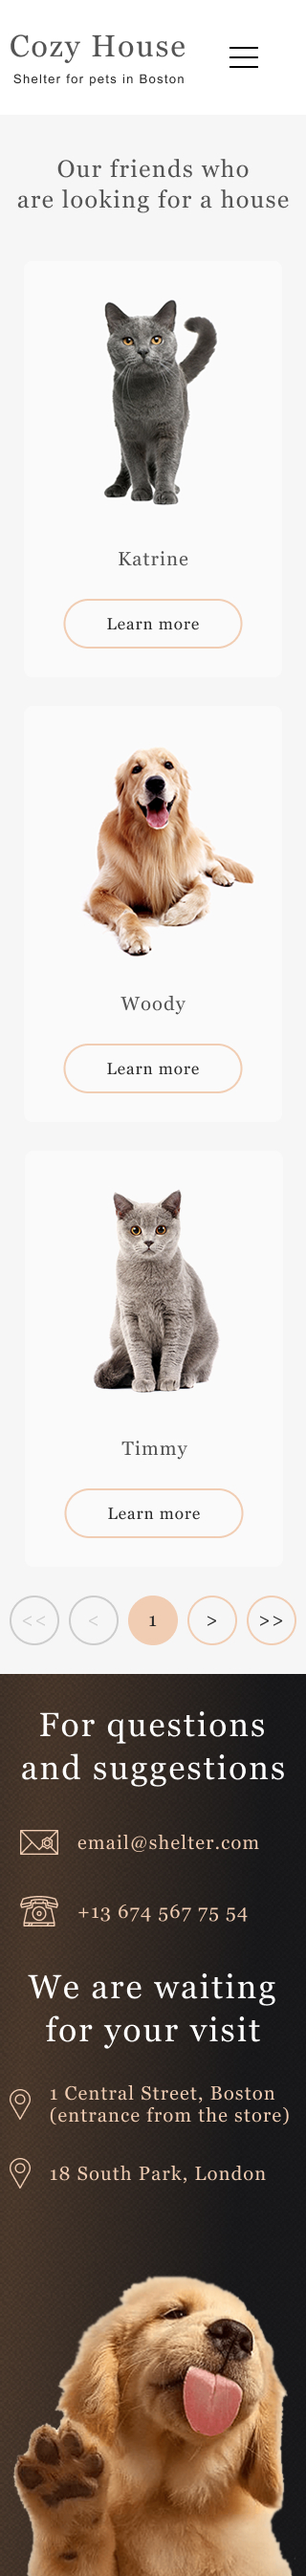
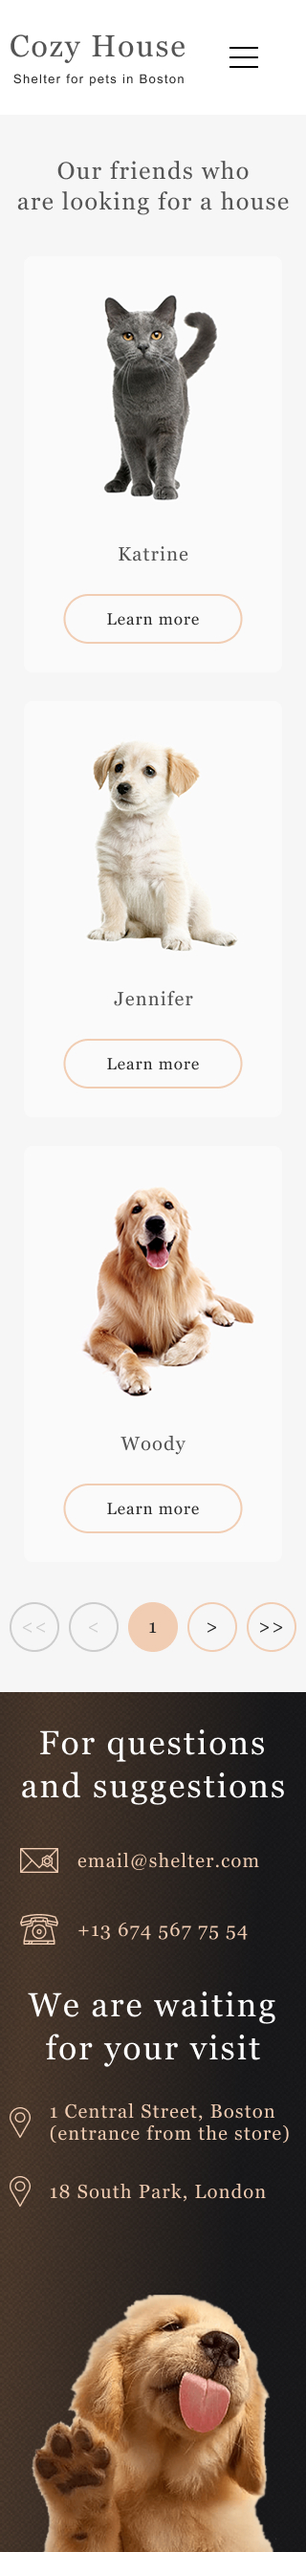
feat: implement adaptivity for main page 768px breakpoint

diff --git a/shelter/pages/main/index.html b/shelter/pages/main/index.html
@@ -57,7 +57,7 @@
                         Make a friend
                     </button>
                 </div>
-                <img class="hero-content__img" src="../../assets/images/header/start-screen-puppy.png"
+                <img class="hero-content__img" src="../../assets/images/main/start-screen/start-screen-puppy.png"
                      alt="Puppy image"/>
             </div>
         </div>
@@ -117,7 +117,7 @@
                             </div>
                         </div>
 
-                        <div class="card">
+                        <div class="card card-768_invisible">
                             <img class="card__img" src="../../assets/images/main/pets/pets-woody.png" alt="Dog image">
                             <h3 class="card__title">Woody</h3>
                             <div class="cards-btn-wrapper">
@@ -145,59 +145,55 @@
 
                 <div class="help-list-wrapper">
 
-                    <ul class="help-list1">
-                        <li class="help-list-item">
-                            <img class="help-list__img" src="../../assets/images/main/help-icons/icon-pet-food.svg"
-                                 alt="Pets food icon">
-                            <h4>Pet food</h4>
-                        </li>
-                        <li class="help-list-item">
-                            <img class="help-list__img"
-                                 src="../../assets/images/main/help-icons/icon-transportation.svg"
-                                 alt="Pets food icon">
-                            <h4>Transportation</h4>
-                        </li>
-                        <li class="help-list-item">
-                            <img class="help-list__img" src="../../assets/images/main/help-icons/icon-toys.svg"
-                                 alt="Pets food icon">
-                            <h4>Toys</h4>
-                        </li>
-                        <li class="help-list-item">
-                            <img class="help-list__img"
-                                 src="../../assets/images/main/help-icons/icon-bowls-and-cups.svg"
-                                 alt="Pets food icon">
-                            <h4>Bowls and cups</h4>
-                        </li>
-                        <li class="help-list-item">
-                            <img class="help-list__img" src="../../assets/images/main/help-icons/icon-shampoos.svg"
-                                 alt="Pets food icon">
-                            <h4>Shampoos</h4>
-                        </li>
-                    </ul>
+                    <li class="help-list-item">
+                        <img class="help-list__img" src="../../assets/images/main/help-icons/icon-pet-food.svg"
+                             alt="Pets food icon">
+                        <h4>Pet food</h4>
+                    </li>
+                    <li class="help-list-item">
+                        <img class="help-list__img"
+                             src="../../assets/images/main/help-icons/icon-transportation.svg"
+                             alt="Pets food icon">
+                        <h4>Transportation</h4>
+                    </li>
+                    <li class="help-list-item">
+                        <img class="help-list__img" src="../../assets/images/main/help-icons/icon-toys.svg"
+                             alt="Pets food icon">
+                        <h4>Toys</h4>
+                    </li>
+                    <li class="help-list-item">
+                        <img class="help-list__img"
+                             src="../../assets/images/main/help-icons/icon-bowls-and-cups.svg"
+                             alt="Pets food icon">
+                        <h4>Bowls and cups</h4>
+                    </li>
+                    <li class="help-list-item">
+                        <img class="help-list__img" src="../../assets/images/main/help-icons/icon-shampoos.svg"
+                             alt="Pets food icon">
+                        <h4>Shampoos</h4>
+                    </li>
 
-                    <ul class="help-list2">
-                        <li class="help-list-item">
-                            <img class="help-list__img" src="../../assets/images/main/help-icons/icon-vitamins.svg"
-                                 alt="Pets food icon">
-                            <h4>Vitamins</h4>
-                        </li>
-                        <li class="help-list-item">
-                            <img class="help-list__img" src="../../assets/images/main/help-icons/vectors/medicines.png"
-                                 alt="Pets food icon">
-                            <h4>Medicines</h4>
-                        </li>
-                        <li class="help-list-item">
-                            <img class="help-list__img"
-                                 src="../../assets/images/main/help-icons/icon-collars-leashes.svg"
-                                 alt="Pets food icon">
-                            <h4>Collars / leashes</h4>
-                        </li>
-                        <li class="help-list-item">
-                            <img class="help-list__img" src="../../assets/images/main/help-icons/icon-sleeping-area.svg"
-                                 alt="Pets food icon">
-                            <h4>Sleeping areas</h4>
-                        </li>
-                    </ul>
+                    <li class="help-list-item">
+                        <img class="help-list__img" src="../../assets/images/main/help-icons/icon-vitamins.svg"
+                             alt="Pets food icon">
+                        <h4>Vitamins</h4>
+                    </li>
+                    <li class="help-list-item">
+                        <img class="help-list__img" src="../../assets/images/main/help-icons/vectors/medicines.png"
+                             alt="Pets food icon">
+                        <h4>Medicines</h4>
+                    </li>
+                    <li class="help-list-item">
+                        <img class="help-list__img"
+                             src="../../assets/images/main/help-icons/icon-collars-leashes.svg"
+                             alt="Pets food icon">
+                        <h4>Collars / leashes</h4>
+                    </li>
+                    <li class="help-list-item">
+                        <img class="help-list__img" src="../../assets/images/main/help-icons/icon-sleeping-area.svg"
+                             alt="Pets food icon">
+                        <h4>Sleeping areas</h4>
+                    </li>
 
                 </div>
             </div>
@@ -233,6 +229,7 @@
 <footer class="footer">
     <div class="wrapper">
         <div class="footer-content">
+
 
             <div class="footer-contacts">
                 <h3 class="footer-contacts__title">For questions and suggestions</h3>

diff --git a/shelter/pages/main/main.css b/shelter/pages/main/main.css
@@ -438,33 +438,13 @@ h1 {
 
 .help-list-wrapper {
     margin-top: 60px;
-    margin-left: 87px;
-    margin-right: 87px;
     width: 100%;
 
     display: flex;
-    flex-direction: column;
+    flex-wrap: wrap;
     justify-content: center;
-    align-items: center;
-}
-
-.help-list1 {
-    width: 100%;
-
-    display: flex;
-    justify-content: space-between;
-    list-style: none;
-}
-
-.help-list2 {
-    margin-top: 55px;
-    padding-left: 84px;
-    padding-right: 84px;
-    width: 100%;
-
-    display: flex;
-    justify-content: space-between;
-    list-style: none;
+    column-gap: 119px;
+    row-gap: 55px;
 }
 
 
@@ -474,6 +454,7 @@ h1 {
     justify-content: center;
     align-items: center;
 }
+
 
 .help-list-item h4 {
     margin-top: 31px;
@@ -497,7 +478,7 @@ h1 {
 .donation-content {
     width: 100%;
     padding-top: 82px;
-    padding-bottom: 102px;
+    padding-bottom: 100px;
 
     display: flex;
     justify-content: center;
@@ -522,7 +503,7 @@ h1 {
 }
 
 .information__subtitle {
-    margin: 21px 0 20px 0;
+    margin: 21px 0 19px 0;
 
     font-family: Georgia, sans-serif;
     font-style: normal;
@@ -587,15 +568,16 @@ h1 {
 }
 
 .footer-content {
-    padding-top: 35px;
+    padding-top: 38px;
     width: 100%;
 
     display: flex;
     justify-content: space-between;
 }
 
+
 .footer-contacts {
-    padding-top: 22px;
+    padding-top: 20px;
     max-width: 279px;
 
     display: flex;
@@ -660,7 +642,7 @@ h1 {
 
 
 .footer-location {
-    padding-top: 22px;
+    padding-top: 20px;
     max-width: 302px;
 
     display: flex;
@@ -721,13 +703,170 @@ h1 {
 }
 
 
+@media screen and (max-width: 1279px) {
 
 
+    .header {
+        top: 30px;
+    }
+
+    .logo {
+        margin-left: 30px;
+    }
+
+    .menu {
+        margin-right: 30px;
+    }
+
+    .hero {
+        padding-top: 150px;
+    }
+
+    .hero-content {
+        flex-direction: column;
+        align-items: center;
+    }
+
+    .content-section {
+        align-items: flex-start;
+        padding-right: 0;
+        padding-bottom: 100px;
+    }
+
+    .hero-content__img {
+        max-width: 569px;
+        align-self: flex-start;
+        margin-left: 140px;
+    }
+
+    .content-section__title {
+        padding-top: 0;
+    }
+
+    .content-section__subtitle {
+        max-width: 460px;
+    }
+
+    .content-section__button {
+        margin-top: 42px;
+        align-self: center;
+    }
 
 
+    .about-content {
+        flex-direction: column-reverse;
+        align-items: center;
+    }
+
+    .about-content-section__title {
+        margin-top: 0;
+    }
+
+    .about-content-section__subtitle {
+        max-width: 436px;
+    }
+
+    .about-content__img {
+        margin-right: 0;
+        margin-top: 80px;
+    }
+
+    .cards-content-wrapper {
+        justify-content: center;
+        column-gap: 12px;
+    }
 
 
+    .cards-wrapper {
+        column-gap: 40px;
+    }
 
+    .card-768_invisible {
+        display: none;
+    }
+
+    .card:nth-child(2) {
+        margin: 0;
+    }
+
+    .card__title {
+        padding: 32px 0;
+    }
+
+    .cards-wrapper__btn-right {
+        margin-top: 1px;
+    }
+
+    .cards-wrapper__btn-left {
+        margin-top: 1px;
+    }
+
+    .help-content {
+        padding-left: 69px;
+        padding-right: 69px;
+    }
+
+
+    .help-list-wrapper {
+        display: grid;
+        grid-template-columns: repeat(3, 1fr);
+        grid-template-rows: repeat(3, 1fr);
+        /*column-gap: 120px;*/
+        column-gap: 10%;
+        /*row-gap: 16%;*/
+        row-gap: 54px;
+        /*justify-content: center;*/
+    }
+
+
+    .donation-content {
+        flex-direction: column-reverse;
+
+        width: 100%;
+        padding-top: 82px;
+        padding-bottom: 100px;
+
+        display: flex;
+        justify-content: center;
+        align-items: center;
+    }
+
+    .information {
+        margin-bottom: 61px;
+    }
+
+    .donation-content__img {
+        margin: 0;
+    }
+
+
+    /*Footer*/
+    .footer-content {
+        display: grid;
+        grid-template-rows: auto;
+        justify-content: space-evenly;
+        padding-top: 30px;
+    }
+
+    .footer-contacts {
+        padding-top: 0;
+    }
+
+    .footer-location {
+        padding-top: 0;
+    }
+
+
+    .footer-img {
+        margin-top: 65px;
+        grid-column: 1/ 3;
+        justify-self: center;
+        /*width: 300px;*/
+        /*height: 310px;*/
+    }
+
+
+}
 
 
 
